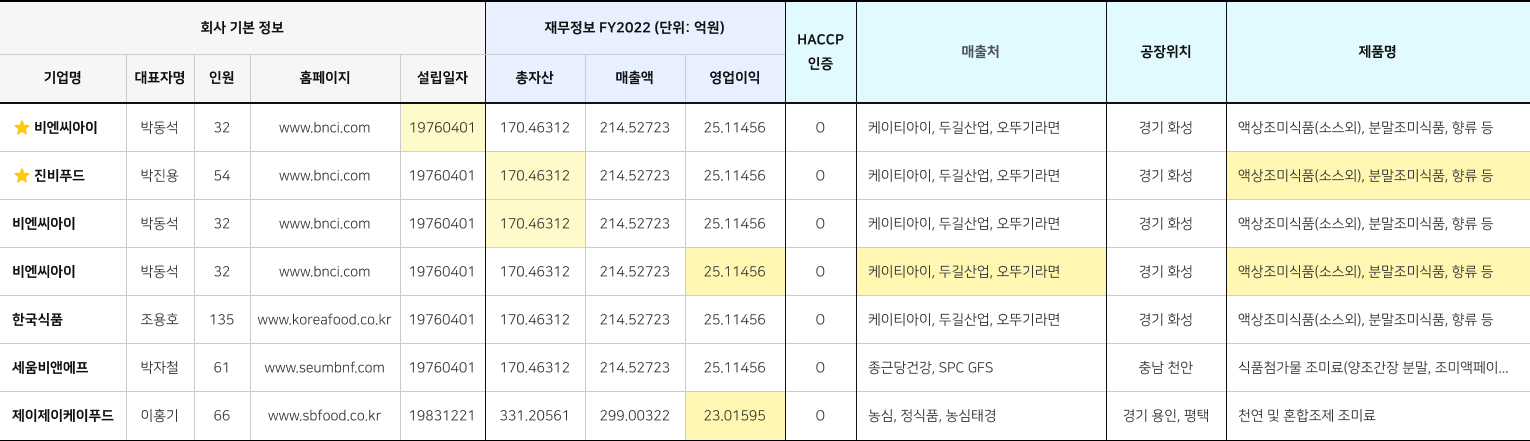
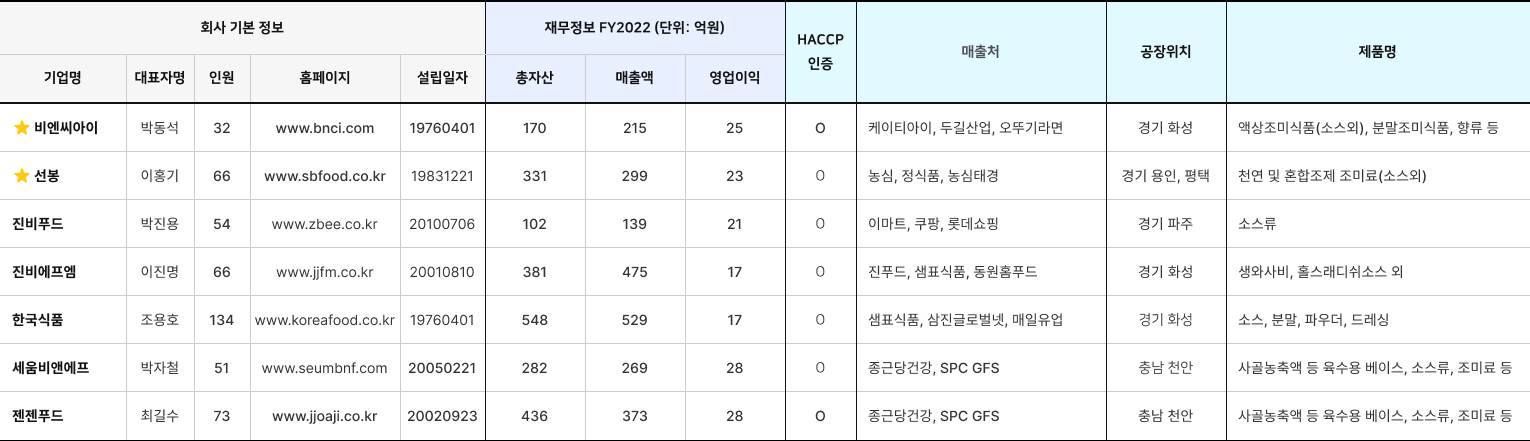
Commit after done with feedback 02/05

diff --git a/src/components/ui/buttons/FloatImageButton.jsx b/src/components/ui/buttons/FloatImageButton.jsx
@@ -216,7 +216,7 @@ const FloatImageButton = () => {
           <Flex align="center" justify="center" gap="0.8rem" wrap="wrap">
             <BorderButton
               href={image.longListImage}
-              download
+              download="DEALTABLE_Long-list"
               onMouseEnter={() => handleHover("image")}
               onMouseLeave={() => handleLeave("image")}
             >
@@ -233,7 +233,7 @@ const FloatImageButton = () => {
 
             <BorderButton
               href={image.longListExcel}
-              download
+              download="DEALTABLE_Long-list"
               onMouseEnter={() => handleHover("excel")}
               onMouseLeave={() => handleLeave("excel")}
             >
@@ -254,7 +254,7 @@ const FloatImageButton = () => {
           <SectionTitle justify="space-between">
             <p>Long-List</p>{" "}
             <p>
-              기업 총 <b>85개</b>
+              기업 총 <b>32개</b>
             </p>
           </SectionTitle>
 

diff --git a/src/theme.js b/src/theme.js
@@ -9,8 +9,8 @@ export const image = {
   homeSectionBg06: require("./assets/images/home-section-bg06.png"),
   homeSectionBg07: require("./assets/images/home-section-bg07.png"),
   longList: require("./assets/images/long-list.jpg"),
-  longListImage: require("./assets/images/long-list-image.jpg"),
-  longListExcel: require("./assets/images/long-list-excel.xlsx"),
+  longListImage: require("./assets/images/DEALTABLE_Long-list.jpg"),
+  longListExcel: require("./assets/images/DEALTABLE_Long-list.xlsx"),
 
   // NOTE: icons for all pages
   whiteLogo: require("./assets/icons/logo-white.svg"),
